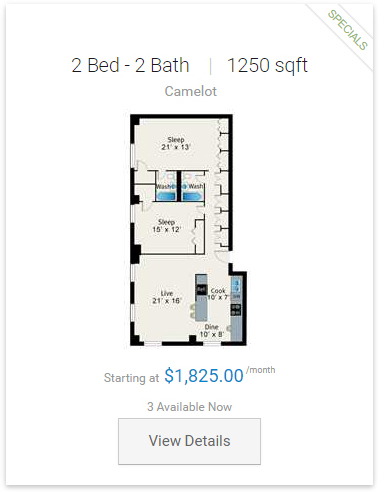
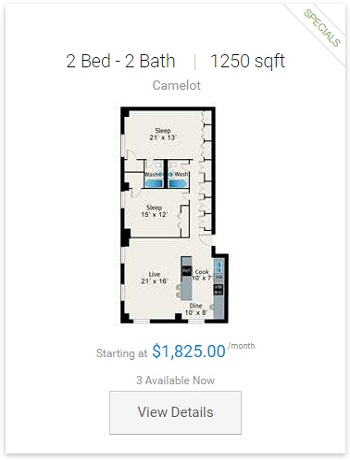
listings dynamically populating with grid system layout

diff --git a/assets/javascript/app.js b/assets/javascript/app.js
@@ -1,80 +1,89 @@
-var floorPlanImages= {
-    "Casa Nova": {
+var floorPlanImagesArray = [
+    {
         name: "casaNova",
-        imgURL: "assets/img/casaNova",
+        imgURL: "assets/img/casaNova.jpg",
         bedroomCount: 0,
         rentAmount: 1200
     },
-    "Monte Cristo": {
+    {
         name: "monteCristo",
-        imgURL: "assets/img/monteCristo",
+        imgURL: "assets/img/monteCristo.jpg",
         bedroomCount: 1,
         rentAmount: 1650 
     },
-    "Shangri-La": {
+    {
         name: "shangriLa",
-        imgURL: "assets/img/shangriLa",
+        imgURL: "assets/img/shangriLa.jpg",
         bedroomCount: 3,
         rentAmount: 1825
     },
-    "Versailles": {
+    {
         name: "versailles",
-        imgURL: "assets/img/versailles",
+        imgURL: "assets/img/versailles.jpg",
         bedroomCount: 2,
         rentAmount: 4000
     },
-    "Xanadu": {
+    {
         name: "xanadu",
-        imgURL: "assets/img/xanadu",
+        imgURL: "assets/img/xanadu.jpg",
         bedroomCount: 2,
         rentAmount: 1525
     },
-    "Hogwarts": {
+    {
         name: "hogwarts",
-        imgURL: "assets/img/hogwarts",
+        imgURL: "assets/img/hogwarts.jpg",
         bedroomCount: 3,
         rentAmount: 1825
     },
-    "Camelot": {
+    {
         name: "camelot",
-        imgURL: "assets/img/camelot",
+        imgURL: "assets/img/camelot.jpg",
         bedroomCount: 2,
         rentAmount: 1825
     },
-    "El Dorado": {
+    {
         name: "elDorado",
-        imgURL: "assets/img/elDorado",
+        imgURL: "assets/img/elDorado.jpg",
         bedroomCount: 1,
         rentAmount: 1825
     },
-    "Vanity Fair": {
+    {
         name: "vanityFair",
-        imgURL: "assets/img/vanityFair",
+        imgURL: "assets/img/vanityFair.jpg",
         bedroomCount: 2,
         rentAmount: 1825
     },
-    "Atlantis": {
+    {
         name: "atlantis",
-        imgURL: "assets/img/atlantis",
+        imgURL: "assets/img/atlantis.jpg",
         bedroomCount: 1,
         rentAmount: 1825
     },
-    "Utopia": {
+    {
         name: "utopia",
-        imgURL: "assets/images/utopia",
+        imgURL: "assets/img/utopia.jpg",
         bedroomCount: 3,
         rentAmount: 2825
     },
-    "Liliput": {
+    {
         name: "liliput",
-        imgURL: "assets/images/liliput",
+        imgURL: "assets/img/liliput.jpg",
         bedroomCount: 0,
         rentAmount: 525
     }
-};
+];
 
-// function to show all listings when page loads
-//      on load, loop through floorPlanImages and pass to #floor-plans
+// function to add all listings on page load
+$(function populateFloorPlans() {
+    $(".floorPlans").empty();
+
+    for (var i = 0; i < floorPlanImagesArray.length; i++){
+        var floorPlanImage = $('<img>');
+        floorPlanImage.attr('src', floorPlanImagesArray[i].imgURL);
+        $(".floorPlans").append(floorPlanImage);
+    }
+});
+
 // function to use bedroom count onclick
 //      on release of bedroom count button, clear the #floor-plans, loop through the floorPlansImages and only push the results matching
 // function to use rent toggle

diff --git a/floorPlans.html b/floorPlans.html
@@ -4,7 +4,7 @@
 	<meta charset="UTF-8">
 	<meta charset="UTF-8">
 	<meta content="IE=edge" http-equiv="X-UA-Compatible">
-	<meta content="width=device-width, initial-scale=1.0" name="viewport">
+	<meta name="viewport" content="width=device-width, initial-scale=1">
 	<link rel="icon" href="assets/img/favicon.ico" type="image/x-icon">
     <link rel="stylesheet" href="./assets/styles/reset.css">
     <link rel="stylesheet" href="https://maxcdn.bootstrapcdn.com/bootstrap/3.3.7/css/bootstrap.min.css" integrity="sha384-BVYiiSIFeK1dGmJRAkycuHAHRg32OmUcww7on3RYdg4Va+PmSTsz/K68vbdEjh4u" crossorigin="anonymous">
@@ -12,16 +12,14 @@
 	<title>Floor Plans</title>
 </head>
 <body>
-    <div class="container">
-        <div class="row">
+    <div class="container-fluid">
+        <div class="row" id="listingsResultsSection">
             <!--where images of floor plans will populate-->
-            <div id="floor-plans">
+            <div class="col-lg-10 col-lg-offset-1 floorPlans"></div>
         </div>
     </div>
-	<script src="https://code.jquery.com/jquery-1.10.2.min.js">
-	</script> 
+	<script src="https://code.jquery.com/jquery-3.2.1.min.js"></script> 
 	<script src="https://maxcdn.bootstrapcdn.com/bootstrap/3.3.7/js/bootstrap.min.js" integrity="sha384-Tc5IQib027qvyjSMfHjOMaLkfuWVxZxUPnCJA7l2mCWNIpG9mGCD8wGNIcPD7Txa" crossorigin="anonymous"></script>
-	<script src="./assets/javascript/app.js" type="text/javascript">
-	</script>
+	<script src="./assets/javascript/app.js" type="text/javascript"></script>
 </body>
 </html>

diff --git a/assets/styles/style.css b/assets/styles/style.css
@@ -1,0 +1,22 @@
+/*#listingsResultsSection, #floorPlans {
+    max-height: 1%;
+    max-width: 1%
+}*/
+/*.floorPlans {
+    margin: 1%;
+    padding: 1%;
+    height: 1px;
+    width: -14px
+}*/
+
+@media (min-width: @screen-sm-min) and (max-width: @screen-sm-max) {
+/*listingsResultsSection {
+    padding: 25%;
+}*/
+}
+@media (min-width: @screen-md-min) and (max-width: @screen-md-max) {
+
+}
+@media (min-width: @screen-lg-min) {
+
+}
